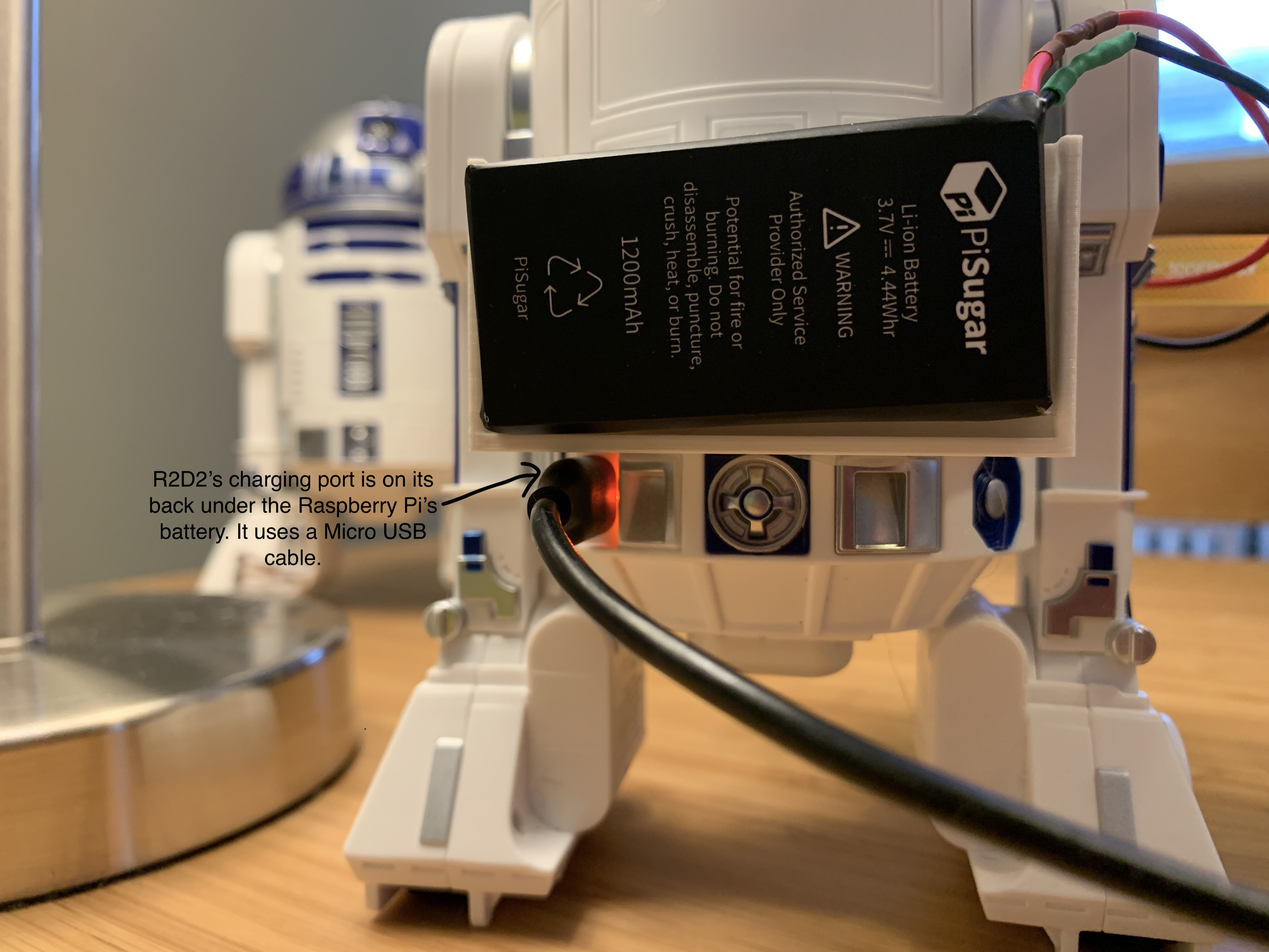
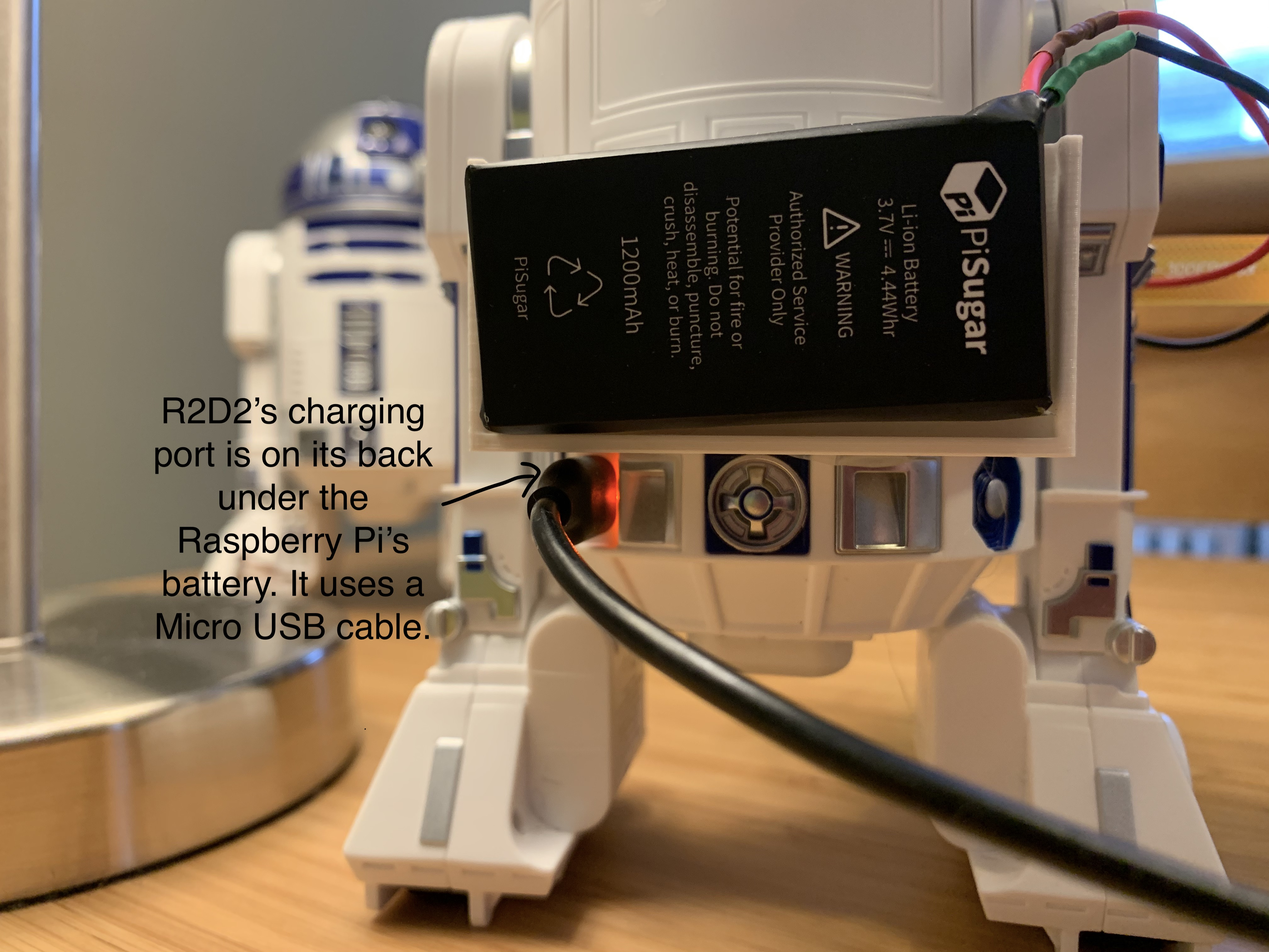
Photos of the charging ports

Changed region(s): [[0.125, 0.4041, 0.3438, 0.6839]]

diff --git a/r2d2_assignments/20fall/hw0/robot-setup.md b/r2d2_assignments/20fall/hw0/robot-setup.md
@@ -36,11 +36,24 @@ Before beginning, you'll need these materials:
 
 These instructions will walk you through how to install the software on your Raspberry Pi Sensor Pack so that you can control your R2D2 with our Python API.
 
-### 0. Charging your R2D2 and your Sensor Pack
+### Charge your R2D2 and your Sensor Pack
+
+To charge your R2D2, you should plug a micro USB cable into its charging port, which is on the back of the robot in the bottom lefthand corner.  If the sensor pack has already been glued onto your robot, then you'll find the robot's charging port just below the batter on its lefhand side.	You can plug the other end of the USB cable into a phone charger or your computer.
+
+<img src="images/setup/R2D2-charging-port.jpg" alt="Location of the charging port on the Sphero R2D2" class="img-responsive" width="75%" halign="center"/>
+
+To charge your sensor pack, plug a micro USB cable into its charging port.  There are three micro USB ports on the Raspberry Pi sensor pack – two on the front and one on the bac. Only the one on the back will charge the battery.   There are a set of blue LED lights on the sensor pack located just behind the camera ribbon.  These blue lights indicate the charge level of the battery. 
+
+<img src="images/setup/raspberry-pi-charger.jpg" alt="Location of the charging port on the sensor pack" class="img-responsive" width="50%" />
 
 
 
-### 1. Installing Software on the Raspberry Pi
+### Update your R2D2's Firmware
+
+If you purchased a R2D2 yourself, rather than borrowing one from us, you may need to update its firmware.  To do this, you should install the Star Wars Droids App by Sphero on your smartphone.  The first time you run it, it will update your R2D2's firmware to the latest version. 
+
+### Install Software on the Raspberry Pi
+
 The sensor pack uses the [Raspberry Pi Zero](https://en.wikipedia.org/wiki/Raspberry_Pi#Pi_Zero).  The Raspberry Pi Zero uses a [micro SD card](https://en.wikipedia.org/wiki/SD_card#Micro) as its storage space.  We will install an operating system for the Raspberry Pi Zero, along with all of the software that we'll need to control the robot, by writing a disk image file to your micro SD card. 
 
 Here is how to put an image file on your Micro SD card:
@@ -48,7 +61,7 @@ Here is how to put an image file on your Micro SD card:
 * Download the [image file](https://drive.google.com/file/d/1XCulQIJeKBYETBc-63kWurN-2qw5MeHO/view?usp=sharing) from our Google drive.
 * Flash the image onto the SD card.  We recommend using [balenaEtcher](https://www.balena.io/etcher/) which is  free software that is available for all platforms.
 
-### 2. Connect the Raspberry Pi to Wi-Fi
+### Connect the Raspberry Pi to Wi-Fi
 
 After the SD card is flashed, you need to set up access to your Wi-Fi network. Download this [configuration file](wpa_supplicant.conf).  Make sure you don't rename the file – it needs to be `wpa_supplicant.conf` in order for the Raspberry Pi's operating system to find it.  The file contents contain the following details:
 
@@ -75,7 +88,7 @@ For students who don't have a private Wi-Fi network, you can use a Wi-Fi Hotspot
 For students that don't have a SD card reader and wants to start immediately, you can try out the more advanced method to temporarily connect to your Rapberry Pi via USB serial. Simply plug a micro USB cable from the USB OTG port on the Rapberry Pi to your computer, and there should be a new serial TTY/COM device pops up. Connect using PuTTY on Windows or `screen` command line tool on Linux/MacOS. You can look for more information online.
 -->
 
-### 3. SSH into Raspberry Pi
+### SSH into the Raspberry Pi
 
 If your Raspberry Pi successfully connected to your Wi-Fi network, then we can remotely access the Raspberry Pi from your computer using Secure Shell (SSH).
 
